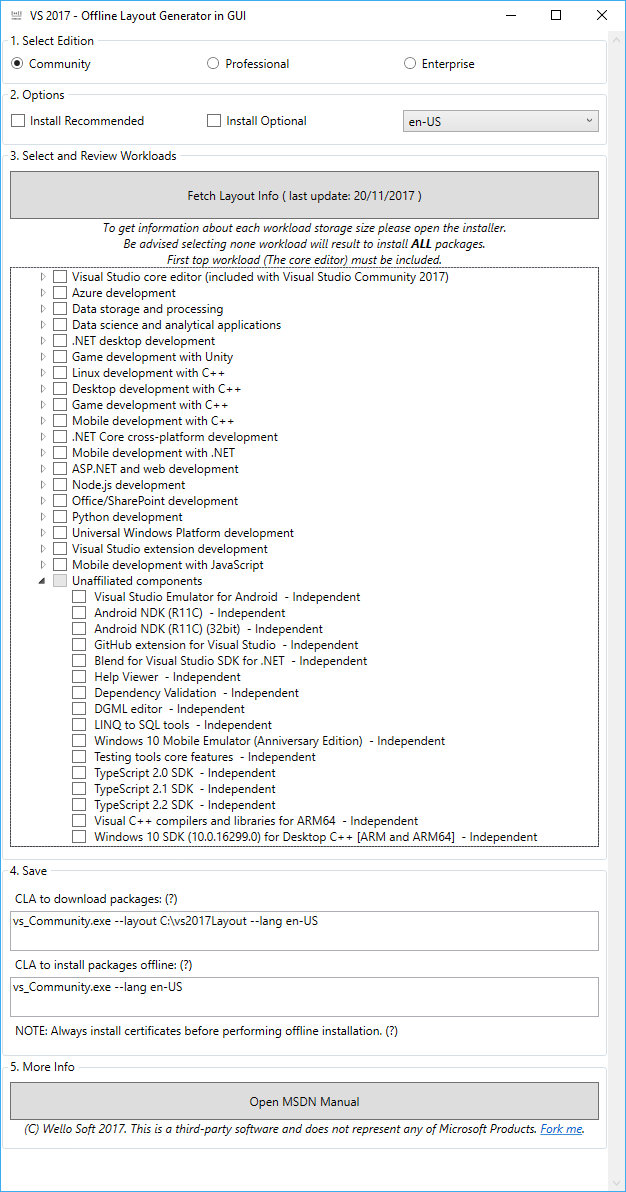
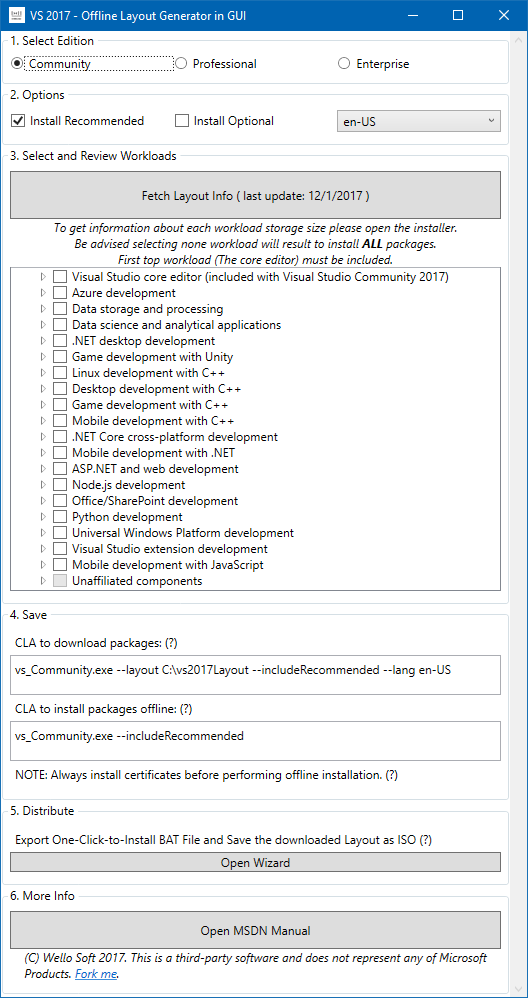
readme update & perks

diff --git a/Vs2017-LIGUI/IsoWizard.xaml.cs b/Vs2017-LIGUI/IsoWizard.xaml.cs
@@ -7,6 +7,7 @@ using MessageBox = System.Windows.MessageBox;
 using IsoCreatorLib;
 using BER.CDCat.Export;
 using System.Threading;
+using System.Diagnostics;
 
 namespace Vs2017LIGUI
 {
@@ -54,7 +55,8 @@ namespace Vs2017LIGUI
             var path = Path.Combine(_layout.Text, _batch.Text);
             if (Path.GetExtension(path).ToLower() != ".bat") path += ".bat";
             File.WriteAllText(path, string.Format(BatContent, batchproduct, batchtemplate));
-            MessageBox.Show("Batchfile has been written to " + path, "", MessageBoxButton.OK, MessageBoxImage.Information);
+            if (MessageBox.Show("Batchfile has been written to " + path + "\r\nDo you want to start the installation?", "Succeed", MessageBoxButton.YesNo, MessageBoxImage.Information) == MessageBoxResult.Yes)
+                Process.Start("explorer", path);
         }
 
         private void _destbtn_Click(object sender, RoutedEventArgs e)
@@ -192,6 +194,8 @@ echo Enter again to start installation..
 pause>nul
 echo Launching Vs 2017 Offline Installation....
 {1}
+echo Installation will start soon. Hang tight :)
+timeout 5>nul
 ";
     }
 }

diff --git a/README.md b/README.md
@@ -15,17 +15,30 @@ In order:
 2. Set options (recommended/optional and language)
 3. (Optional) Fetch the updated workload data.
 4. Choose (and review) selected workloads and component.
-5. Download the [stub installer][installer]. Run with the provided CLA (Command Line Argument) from this software.
+5. Download the [stub installer][installer]. Run with the provided download arguments from this software.
 6. CLI will appear. Wait until all component downloaded.
-7. Open folder `C:\vs2017Layout`.
-8. [Install certificates][certificates].
-9. Run the setup (this time from layout folder) with provided CLA from this software. 
-10. GUI Installation will appear, wait until installation complete.
-11. (Optional) You can save the CLA to `BAT` file for future installation.
+7. Open wizard (see distribute section).
+![Screenshot](Info/ScreenshotWizard.png)
+8. Check the paths, change if necessary.
+9. `Save` the batch file. You'll use this as the starting point of VS 2017 installation.
+10. After the save button, you'll see a confirmation. Click `Yes` to execute the batchfile. Next step you just need to follow the instruction.
+11. (Optional) if you want to keep the layout file for future, hit the `Start` button to save it as an ISO file. Wait until it gets completed.
+
+## Additional Notes
+
+> To run the installation with arguments:
+
+![Hint](Info/CLAHint.png)
+
+> CLI (Command line Interface) will appear when downloading layouts, but will show normal GUI during offline installation.
+
+> Before installation begin VS will show you list of workloads, even when you're offline. Following instruction above you only need to skip it (as cached layouts is already selected via arguments).
+
+> If a component are missing from downloaded layout, it'll redownloaded automatically at install. If you're on metered network you can turn off the internet during install to prevent it. The installation still can continue anyway (with prompts).
 
 ## How it works
 
-This software fetch list of workload and component IDs from [GitHub mirror][workloadsgit] of their [List of Workloads](workloadsdoc) in their documentation. This is necessary because you will always get updated list of workloads, and I don't know other way to do it. 
+This software fetch list of workload and component IDs from [GitHub mirror][workloadsgit] of their [List of Workloads][workloadsdoc] in their documentation. This is necessary because you will always get updated list of workloads, and I don't know other way to do it. 
 
 If Microsoft changes or move their documentation layout or path, there will be chance that this application fail to parse, or even crash. If this happen, tell me.
 
